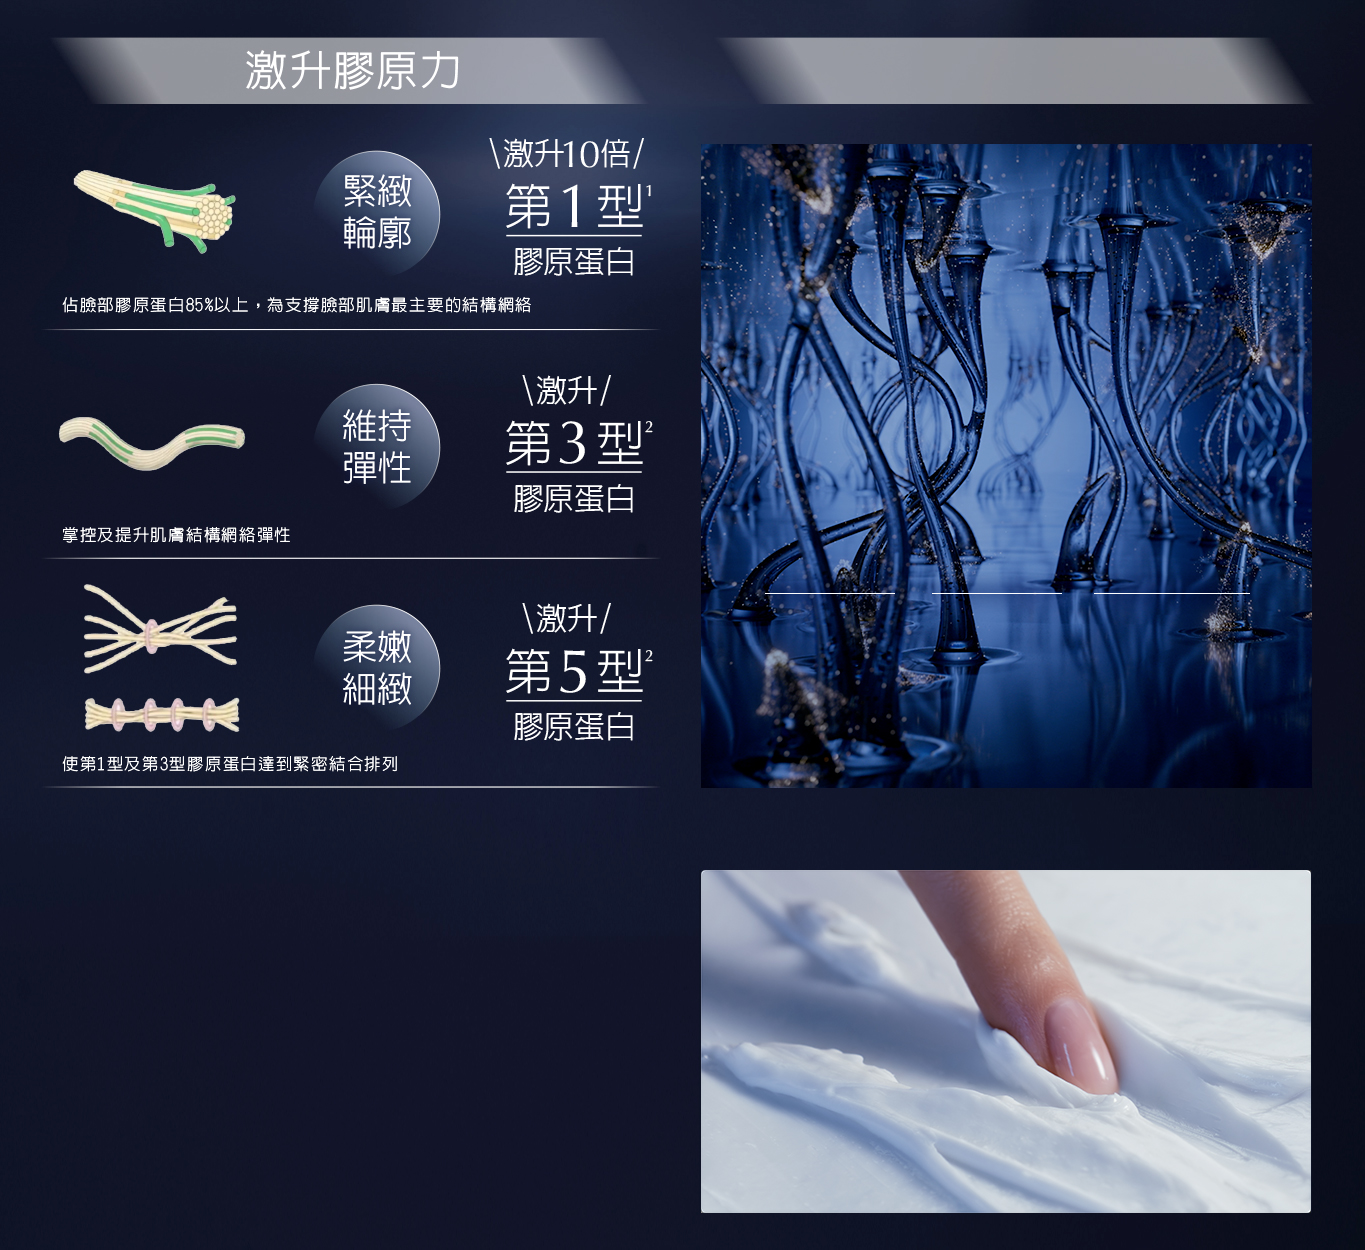
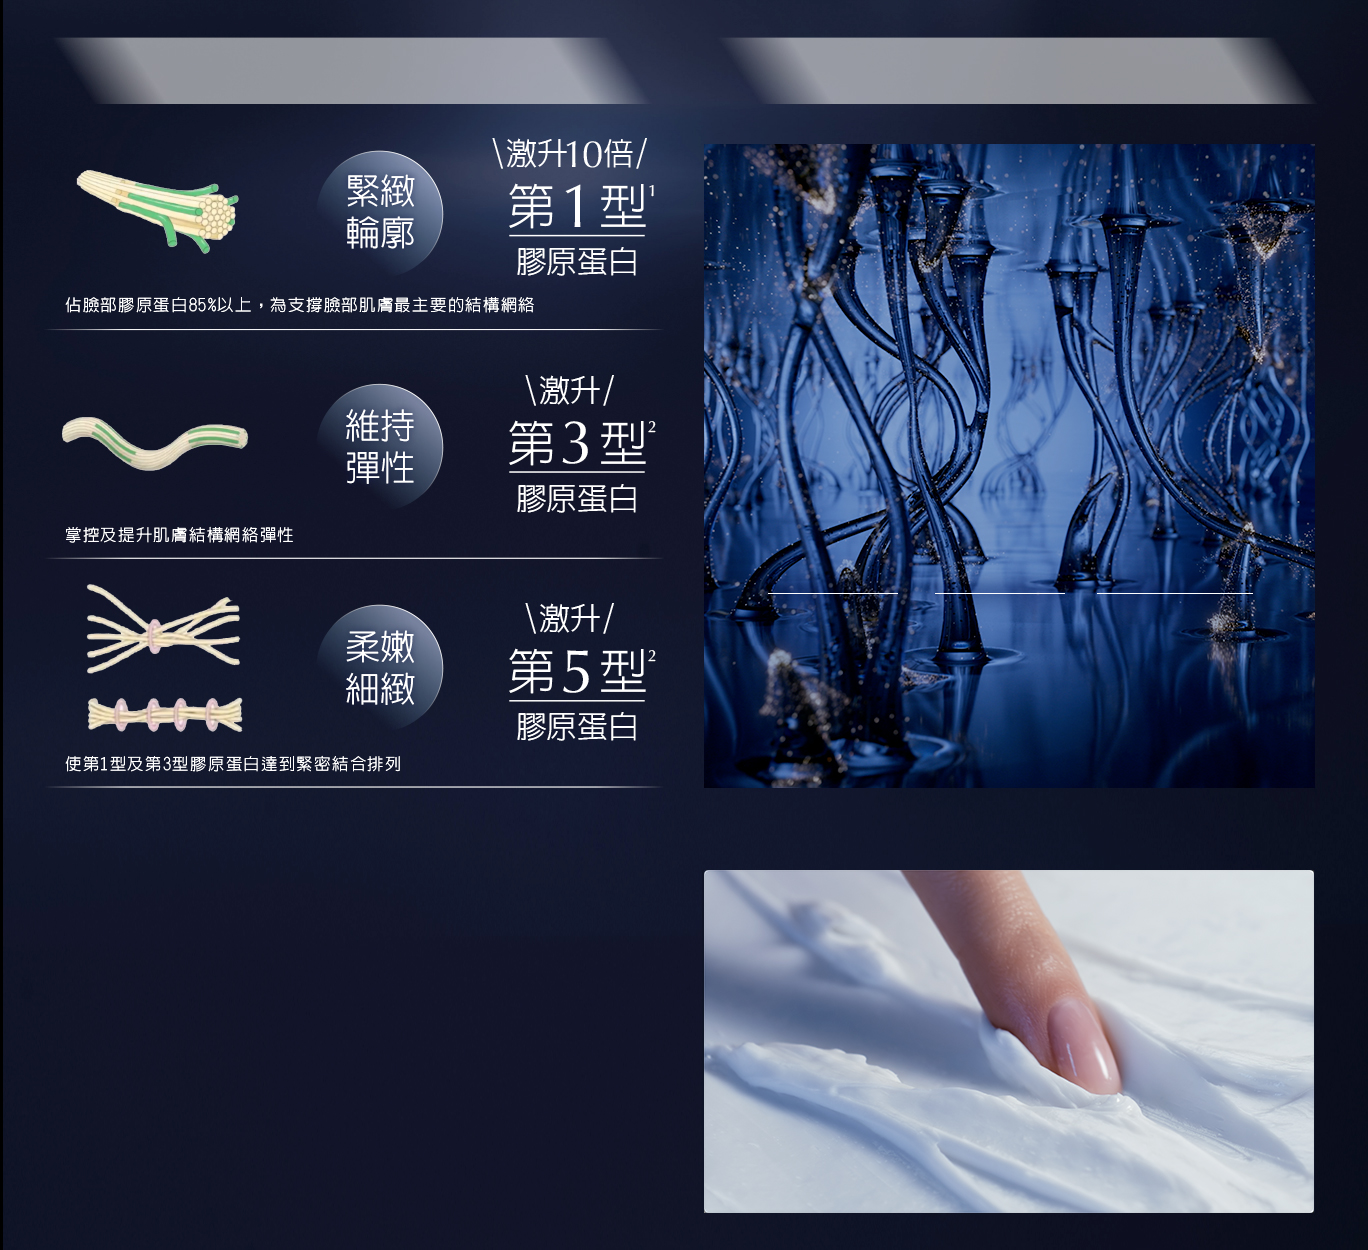
Update font family and background images in sections

diff --git a/public/demo.html b/public/demo.html
@@ -4,25 +4,45 @@
     <meta charset="UTF-8" />
     <meta name="viewport" content="width=device-width, initial-scale=1.0" />
     <title></title>
-    <link
-      rel="stylesheet"
-      crossorigin
-      href="https://www.esteelauder.com.tw/media/export/cms/2403S+ANR/css/index.css"
-    />
-    <link rel="stylesheet" crossorigin href="../dist/css/index.css" />
+    <link rel="stylesheet" crossorigin href="css/index.css" />
   </head>
   <body>
     <div class="Home">
-      <div class="Section">
-        <div class="section-0"><div>1</div></div>
-        <div class="section-1"><div>2</div></div>
-        <div class="section-2"><div>3</div></div>
-        <div class="section-3"><div>4</div></div>
-        <div class="section-4"><div>5</div></div>
-        <div class="section-5"><div>6</div></div>
-        <div class="section-6"><div>7</div></div>
-        <div class="section-7"><div>8</div></div>
-      </div>
+      <section class="Section">
+        <div class="section-0">
+          <div>
+            <div class="bg"></div>
+            <div class="t0">
+              <span>96%一夜有感<sup>1</sup></span
+              ><span>4hr啟動膠原回彈肌<sup>2</sup></span>
+            </div>
+          </div>
+        </div>
+        <div class="section-1">
+          <div><div class="bg"></div></div>
+        </div>
+        <div class="section-2">
+          <div><div class="bg"></div></div>
+        </div>
+        <div class="section-3">
+          <div><div class="bg"></div></div>
+        </div>
+        <div class="section-4">
+          <div><div class="bg"></div></div>
+        </div>
+        <div class="section-5">
+          <div><div class="bg"></div></div>
+        </div>
+        <div class="section-6">
+          <div><div class="bg"></div></div>
+        </div>
+        <div class="section-7">
+          <div><div class="bg"></div></div>
+        </div>
+        <div class="section-8">
+          <div><div class="bg"></div></div>
+        </div>
+      </section>
     </div>
   </body>
 </html>

diff --git a/src/settings/section-0.less b/src/settings/section-0.less
@@ -20,10 +20,56 @@
   & > div {
     @apply absolute top-0 left-0 right-0 bottom-0;
 
+    & > div {
+      @apply relative;
+    }
+
     .bg {
-      background-image: url('./img/bg-lg-0.jpg');
+      background-image: url('./img/bg-lg-@{index}.jpg');
       background-size: 100%;
       @apply w-full h-full absolute top-0 left-0 opacity-90;
+
+      @media only screen and (max-width: 1363px) {
+        & {
+          padding-bottom: (unit(image-height(@img) / unit(image-width(@img))) * 100%);
+          background-image: url(@img);
+
+          @img: './img/bg-md-@{index}.jpg';
+        }
+      }
+    }
+
+    .t0 {
+      top: 50%;
+      left: 5.7%;
+      margin-top: -10.2%;
+      font-size: 3.3rem;
+      // font-size: calc(28.3 / 7.5 * 1vw);
+      line-height: 120%;
+      @apply text-white flex flex-col items-center absolute;
+
+      sup {
+        top: -1.3rem;
+        font-size: 1.7rem;
+        // font-size: calc(10.8 / 7.5 * 1vw);
+      }
+
+      @media only screen and (max-width: 1363px) {
+        & {
+          top: 0;
+          left: 0;
+          margin-top: 19%;
+          margin-left: 0;
+          font-size: 3.8rem;
+          @apply w-full;
+        }
+      }
+
+      @media only screen and (max-width: 768px) {
+        & {
+          font-size: calc(58.3 / 7.5 * 1vw);
+        }
+      }
     }
   }
 }

diff --git a/src/components/container/index.tsx b/src/components/container/index.tsx
@@ -23,8 +23,8 @@ const Container = memo(({ children }: IReactProps) => {
           onClick={() => {
             const node = context[ActionType.Node];
             const html = ReactDOMServer.renderToString(node as unknown as ReactNode);
-            const cssURL = `<link rel="stylesheet" crossorigin href="./assets/css/index.css" /><link rel="stylesheet" crossorigin href="./assets/css/index2.css" />`;
-            navigator.clipboard.writeText(cssURL + html);
+            // const cssURL = `<link rel="stylesheet" crossorigin href="./assets/css/index.css" /><link rel="stylesheet" crossorigin href="./assets/css/index2.css" />`;
+            navigator.clipboard.writeText('<div class="Home">' + html + '</div>');
             alert('copied');
           }}
         >

diff --git a/src/pages/home/index.tsx b/src/pages/home/index.tsx
@@ -13,7 +13,15 @@ const Home = memo(() => {
           <Section>
             <div className='section-0'>
               <div>
-                <div className='bg'></div>
+                <div className='bg' />
+                <div className='t0'>
+                  <span>
+                    96%一夜有感<sup>1</sup>
+                  </span>
+                  <span>
+                    4hr啟動膠原回彈肌<sup>2</sup>
+                  </span>
+                </div>
               </div>
             </div>
             <div className='section-1'>

diff --git a/src/settings/section-1.less b/src/settings/section-1.less
@@ -21,9 +21,18 @@
     @apply absolute top-0 left-0 right-0 bottom-0;
 
     .bg {
-      background-image: url('./img/bg-lg-1.jpg');
+      background-image: url('./img/bg-lg-@{index}.jpg');
       background-size: 100%;
       @apply w-full h-full absolute top-0 left-0 opacity-90;
+
+      @media only screen and (max-width: 1363px) {
+        & {
+          padding-bottom: (unit(image-height(@img) / unit(image-width(@img))) * 100%);
+          background-image: url(@img);
+
+          @img: './img/bg-md-@{index}.jpg';
+        }
+      }
     }
   }
 }

diff --git a/src/settings/section-2.less b/src/settings/section-2.less
@@ -21,9 +21,18 @@
     @apply absolute top-0 left-0 right-0 bottom-0;
 
     .bg {
-      background-image: url('./img/bg-lg-2.jpg');
+      background-image: url('./img/bg-lg-@{index}.jpg');
       background-size: 100%;
       @apply w-full h-full absolute top-0 left-0 opacity-90;
+
+      @media only screen and (max-width: 1363px) {
+        & {
+          padding-bottom: (unit(image-height(@img) / unit(image-width(@img))) * 100%);
+          background-image: url(@img);
+
+          @img: './img/bg-md-@{index}.jpg';
+        }
+      }
     }
   }
 }

diff --git a/src/settings/section-3.less b/src/settings/section-3.less
@@ -21,9 +21,18 @@
     @apply absolute top-0 left-0 right-0 bottom-0;
 
     .bg {
-      background-image: url('./img/bg-lg-3.jpg');
+      background-image: url('./img/bg-lg-@{index}.jpg');
       background-size: 100%;
       @apply w-full h-full absolute top-0 left-0 opacity-90;
+
+      @media only screen and (max-width: 1363px) {
+        & {
+          padding-bottom: (unit(image-height(@img) / unit(image-width(@img))) * 100%);
+          background-image: url(@img);
+
+          @img: './img/bg-md-@{index}.jpg';
+        }
+      }
     }
   }
 }

diff --git a/src/settings/section-4.less b/src/settings/section-4.less
@@ -21,9 +21,18 @@
     @apply absolute top-0 left-0 right-0 bottom-0;
 
     .bg {
-      background-image: url('./img/bg-lg-4.jpg');
+      background-image: url('./img/bg-lg-@{index}.jpg');
       background-size: 100%;
       @apply w-full h-full absolute top-0 left-0 opacity-90;
+
+      @media only screen and (max-width: 1363px) {
+        & {
+          padding-bottom: (unit(image-height(@img) / unit(image-width(@img))) * 100%);
+          background-image: url(@img);
+
+          @img: './img/bg-md-@{index}.jpg';
+        }
+      }
     }
   }
 }

diff --git a/src/settings/section-5.less b/src/settings/section-5.less
@@ -21,9 +21,18 @@
     @apply absolute top-0 left-0 right-0 bottom-0;
 
     .bg {
-      background-image: url('./img/bg-lg-5.jpg');
+      background-image: url('./img/bg-lg-@{index}.jpg');
       background-size: 100%;
       @apply w-full h-full absolute top-0 left-0 opacity-90;
+
+      @media only screen and (max-width: 1363px) {
+        & {
+          padding-bottom: (unit(image-height(@img) / unit(image-width(@img))) * 100%);
+          background-image: url(@img);
+
+          @img: './img/bg-md-@{index}.jpg';
+        }
+      }
     }
   }
 }

diff --git a/src/settings/section-6.less b/src/settings/section-6.less
@@ -21,9 +21,18 @@
     @apply absolute top-0 left-0 right-0 bottom-0;
 
     .bg {
-      background-image: url('./img/bg-lg-6.jpg');
+      background-image: url('./img/bg-lg-@{index}.jpg');
       background-size: 100%;
       @apply w-full h-full absolute top-0 left-0 opacity-90;
+
+      @media only screen and (max-width: 1363px) {
+        & {
+          padding-bottom: (unit(image-height(@img) / unit(image-width(@img))) * 100%);
+          background-image: url(@img);
+
+          @img: './img/bg-md-@{index}.jpg';
+        }
+      }
     }
   }
 }

diff --git a/src/settings/section-7.less b/src/settings/section-7.less
@@ -21,9 +21,18 @@
     @apply absolute top-0 left-0 right-0 bottom-0;
 
     .bg {
-      background-image: url('./img/bg-lg-7.jpg');
+      background-image: url('./img/bg-lg-@{index}.jpg');
       background-size: 100%;
       @apply w-full h-full absolute top-0 left-0 opacity-90;
+
+      @media only screen and (max-width: 1363px) {
+        & {
+          padding-bottom: (unit(image-height(@img) / unit(image-width(@img))) * 100%);
+          background-image: url(@img);
+
+          @img: './img/bg-md-@{index}.jpg';
+        }
+      }
     }
   }
 }

diff --git a/src/settings/section-8.less b/src/settings/section-8.less
@@ -21,9 +21,18 @@
     @apply absolute top-0 left-0 right-0 bottom-0;
 
     .bg {
-      background-image: url('./img/bg-lg-8.jpg');
+      background-image: url('./img/bg-lg-@{index}.jpg');
       background-size: 100%;
       @apply w-full h-full absolute top-0 left-0 opacity-90;
+
+      @media only screen and (max-width: 1363px) {
+        & {
+          padding-bottom: (unit(image-height(@img) / unit(image-width(@img))) * 100%);
+          background-image: url(@img);
+
+          @img: './img/bg-md-@{index}.jpg';
+        }
+      }
     }
   }
 }
